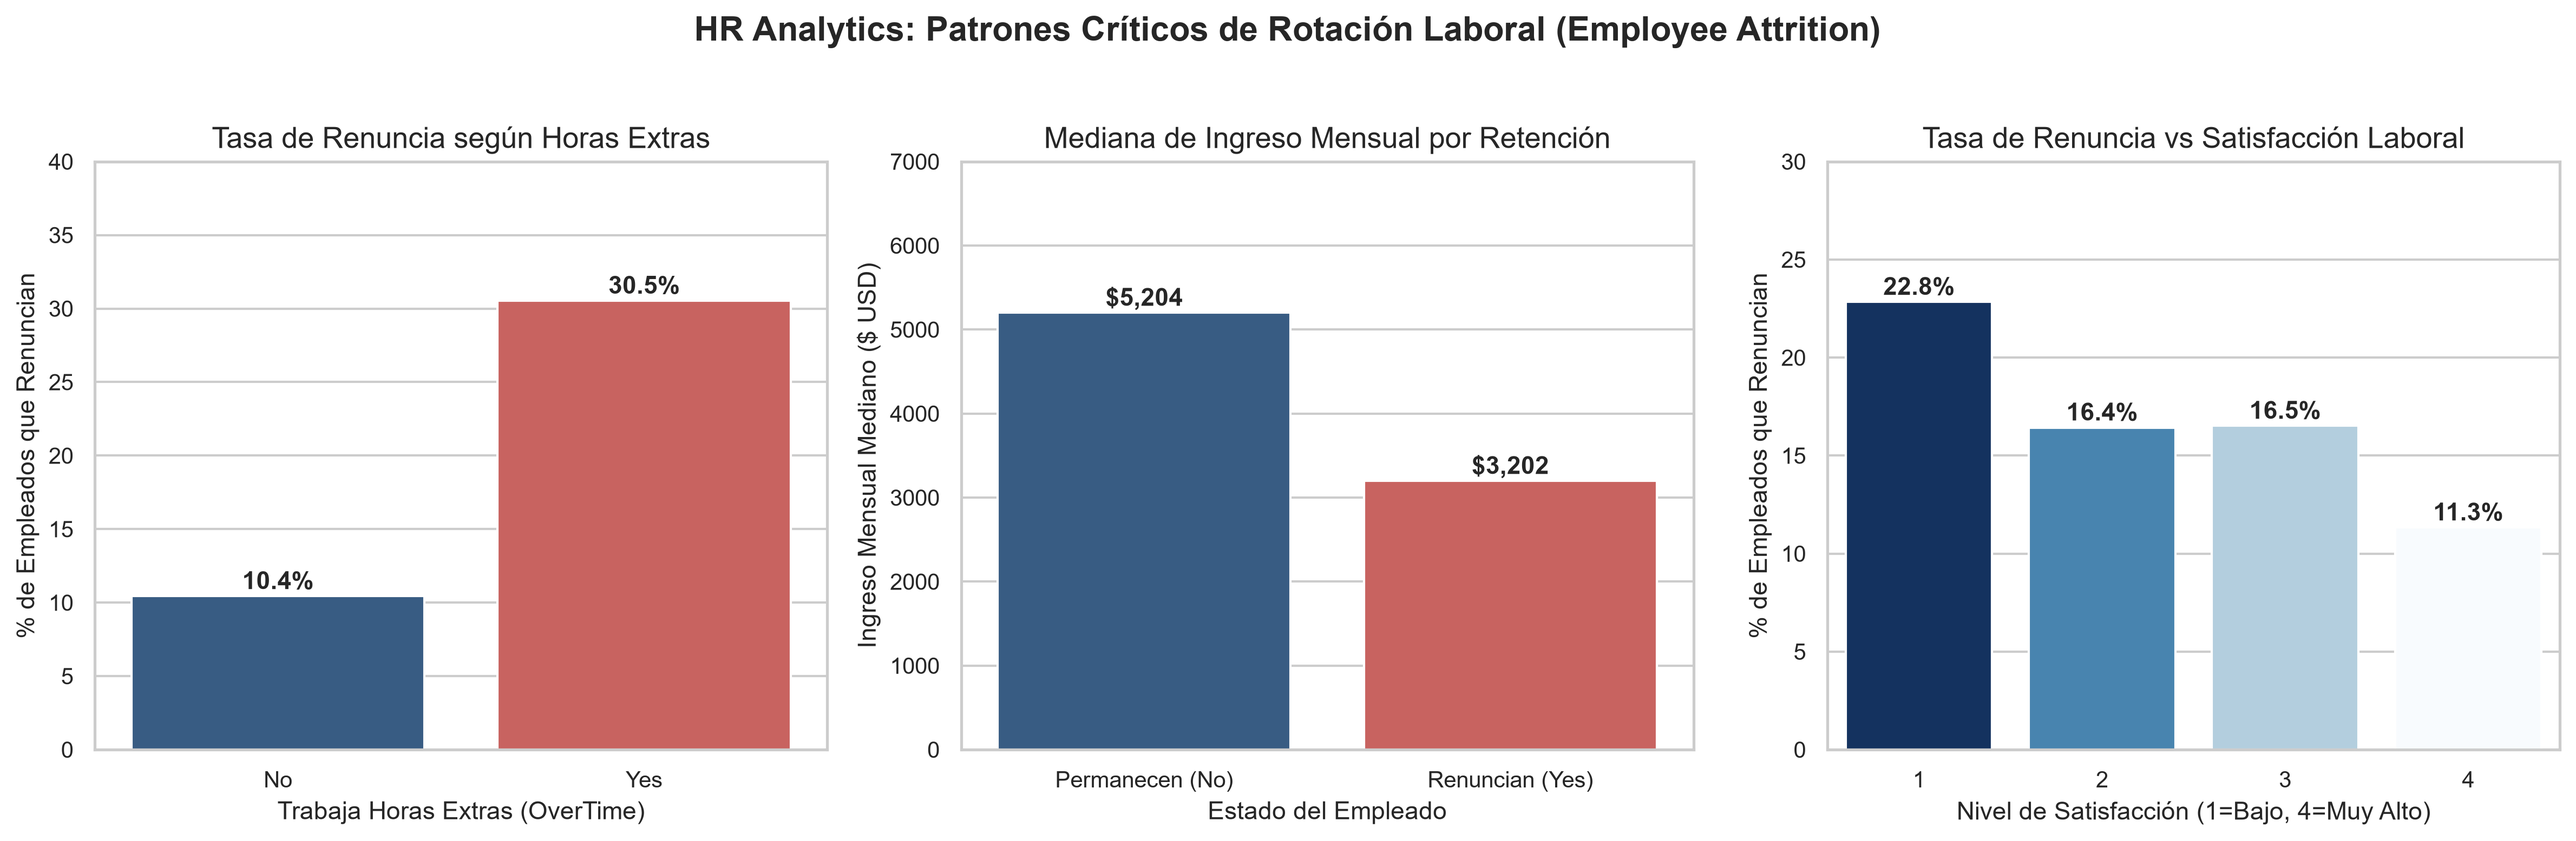
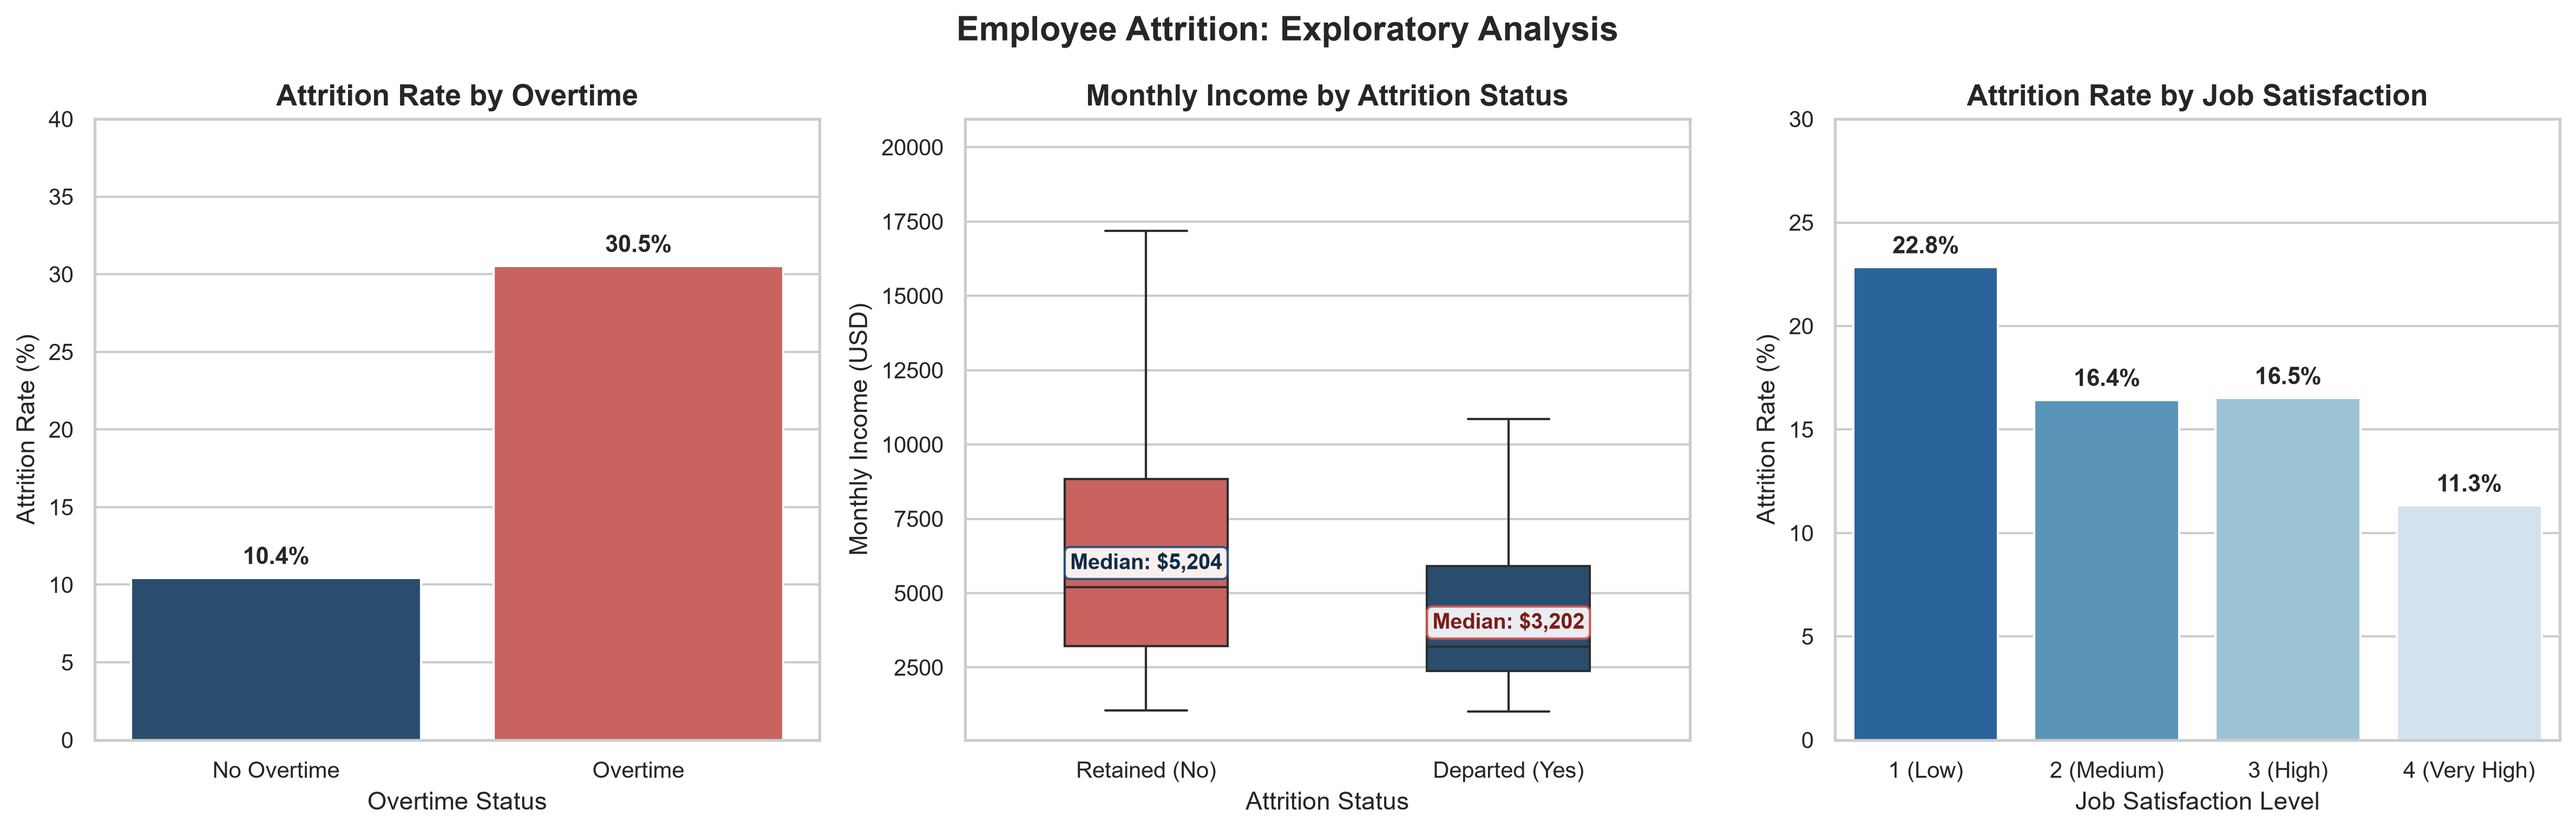
docs: standardize visualizations in english and polish     readme

diff --git a/README.md b/README.md
@@ -1,120 +1,144 @@
 # HR Analytics: Employee Attrition Prediction
 
 **Machine Learning Zoomcamp — Midterm Project**  
-*Por: Romantic Maxwell*
+**Author:** Aldair Maquera  
 
 ---
 
-## 1. Descripcion del Problema de Negocio
+## 1. Problem Description
 
-La rotacion o renuncia voluntaria de empleados (**Employee Attrition**) es uno de los desafios mas criticos y costosos para cualquier organizacion. Segun diversos estudios de Recursos Humanos (SHRM), reemplazar a un colaborador calificado cuesta entre el **50% y el 200% de su salario anual**, sumado a la perdida de conocimiento institucional, tiempo invertido en reclutamiento y disminucion de la moral en los equipos.
+Employee turnover (**Employee Attrition**) is one of the most critical operational and financial challenges organizations face. Human resources research (e.g., SHRM) estimates that replacing a qualified employee typically costs between **50% and 200% of their annual salary**, accounting for recruitment fees, onboarding time, loss of institutional knowledge, and team disruption.
 
-### Objetivo del Proyecto
-Desarrollar una solucion integral de Machine Learning que prediga la probabilidad de que un empleado decida abandonar la empresa. Con estas predicciones, el departamento de Recursos Humanos (People Operations) puede:
-- Identificar perfiles en riesgo de fuga de talento antes de que presenten su renuncia.
-- Implementar planes de retencion personalizados (ajustes de carga laboral, revisiones salariales, promociones o capacitacion).
-- Disminuir la tasa de rotacion voluntaria y optimizar el presupuesto operativo de la empresa.
+### Project Objective
+The goal of this project is to build an end-to-end Machine Learning pipeline that estimates the probability of voluntary employee attrition. This project was developed as the Midterm Project for the **Machine Learning Zoomcamp** (DataTalks.Club).
+
+By providing probabilistic risk estimates, People Operations and HR teams can:
+- Identify team members showing higher statistical patterns associated with turnover.
+- Explore personalized retention actions (workload rebalancing, compensation reviews, career progression, mentorship).
+- Support strategic workforce planning and minimize unnecessary turnover expenses.
+
+> **Note on Causality:** The relationships identified in this project represent statistical associations observed in the dataset. They provide actionable signals for decision support, but should not be interpreted as proven causal mechanisms.
 
 ### Dataset
-Se utiliza el dataset de **IBM HR Analytics Employee Attrition** (disponible en `data/employee_attrition.csv`), el cual contiene **1,470 registros y 35 variables** que cubren aspectos demograficos, compensaciones, evaluaciones de desempeno y niveles de satisfaccion laboral.
+This project uses the **IBM HR Analytics Employee Attrition** dataset (stored in `data/employee_attrition.csv`), containing **1,470 records and 35 variables** spanning demographic details, compensation, job evaluations, role characteristics, and workplace satisfaction indicators.
 
 ---
 
-## 2. Resumen del Analisis Exploratorio (EDA)
+## 2. Exploratory Data Analysis (EDA)
 
-Durante el analisis en el notebook interactivo ([`notebook.ipynb`](notebook.ipynb)) se identificaron los siguientes patrones clave:
-1. **Desbalance moderado de clases:** Aproximadamente el **16.1%** de los empleados renunciaron (`target = 1`), mientras que el **83.9%** permanecio en la compania (`target = 0`).
-2. **Horas extras (`overtime`):** Es uno de los predictores mas fuertes; los empleados que realizan horas extras presentan una tasa de rotacion superior al **30%**, frente a menos del **10%** en quienes no las realizan.
-3. **Ingreso mensual (`monthlyincome`):** Los colaboradores que abandonan la empresa tienen ingresos mensuales sensiblemente menores (mediana en ~$3,200 vs ~$5,200 en empleados retenidos).
-4. **Distancia al hogar (`distancefromhome`):** Los trayectos diarios largos incrementan la probabilidad de renuncia.
-5. **Satisfaccion laboral y del entorno:** Calificaciones bajas (1 o 2 sobre 4) se correlacionan directamente con mayor fuga de talento.
+The complete exploratory analysis is documented in [`notebook.ipynb`](notebook.ipynb). Key findings include:
+
+1. **Target Class Imbalance:** Approximately **16.1%** of employees left the company (`target = 1`), while **83.9%** remained (`target = 0`). Because of this class imbalance, **ROC-AUC** is used as the primary evaluation metric rather than accuracy.
+2. **Overtime Work (`overtime`):** Employees working overtime exhibit an attrition rate of **30.5%**, compared to **10.4%** for employees without overtime.
+3. **Monthly Compensation (`monthlyincome`):** The income distribution is right-skewed across both groups. Departing employees show a substantially lower median monthly income (**$3,202 USD**) compared to retained employees (**$5,204 USD**).
+4. **Job Satisfaction (`jobsatisfaction`):** Attrition rate decreases progressively from **22.8%** among employees with low satisfaction (rating 1) down to **11.3%** for very high satisfaction (rating 4).
+
+![Employee Attrition: Exploratory Analysis](img/eda_attrition_insights.png)
 
 ---
 
-## 3. Comparativa y Afinamiento de Modelos
+## 3. Model Comparison and Tuning
 
-Se entrenaron y compararon 4 familias de algoritmos supervisados utilizando la metrica **ROC-AUC** debido al desbalance de clases:
+Four supervised classification families were trained and evaluated on stratified splits (80% train, 20% test). Models were evaluated primarily using **ROC-AUC** to reliably measure ranking capability despite class imbalance.
 
-| Modelo | Val ROC-AUC (Baseline) | 5-Fold CV ROC-AUC | Test ROC-AUC (Final) |
+| Classification Model | Validation ROC-AUC (Baseline) | 5-Fold CV ROC-AUC | Test ROC-AUC (Final) |
 |---|:---:|:---:|:---:|
-| **Logistic Regression** | 0.8308 | **0.8093 +/- 0.031** | **0.8053** |
+| **Logistic Regression** *(Selected)* | 0.8308 | **0.8093 +/- 0.031** | **0.8053** |
 | **Random Forest Classifier** | **0.8393** | 0.7992 +/- 0.022 | 0.7996 |
 | **XGBoost Classifier** | 0.7808 | 0.7870 +/- 0.025 | 0.8033 |
 | **Decision Tree Classifier** | 0.7584 | 0.7310 +/- 0.035 | 0.7240 |
 
-### Seleccion del Modelo Final
-Se selecciono **Logistic Regression** (con regularizacion `C=1.0`, solver `liblinear`) debido a:
-- Mejor rendimiento promedio y consistencia en validacion cruzada y conjunto de prueba final (**AUC 0.8053**, **Accuracy 88.8%**).
-- Alta interpretabilidad de los coeficientes para decisiones de negocio en Recursos Humanos.
-- Inferencia ultra-rapida y bajo consumo de recursos en produccion.
+![Classification Models: ROC-AUC Comparison](img/model_performance_comparison.png)
+
+### Final Model Selection
+**Logistic Regression** (with regularizer `C=1.0`, `solver='liblinear'`) was selected as the final model due to:
+- **Strong Generalization:** Highest average score and stability across 5-Fold Cross-Validation (**0.8093**) and the unseen Test set (**ROC-AUC: 0.8053**, **Test Accuracy: 88.8%**).
+- **Interpretability:** Clean feature coefficients that clearly indicate the directional influence of each factor.
+- **Efficiency:** Minimal compute footprint, near-zero inference latency, and lightweight deployment requirements.
 
 ---
 
-## 4. Estructura del Repositorio
+## 4. Repository Structure
 
 ```text
 mlzoomcamp-midterm-project/
 ├── data/
-│   └── employee_attrition.csv   # Dataset original
-├── notebook.ipynb                # Analisis exploratorio, modelado y tuning
-├── train.py                     # Script para reentrenar y exportar model.bin
-├── predict.py                   # Servicio web con FastAPI
-├── test_predict.py              # Script cliente para probar inferencia
-├── model.bin                    # Artefacto guardado (DictVectorizer + Modelo)
-├── pyproject.toml               # Dependencias gestionadas con uv
-├── uv.lock                      # Bloqueo determinista de dependencias
-├── Dockerfile                   # Configuracion de contenedor
-├── .gitignore                   # Exclusion de entornos y temporales
-└── README.md                    # Documentacion del proyecto
+│   └── employee_attrition.csv       # Original dataset
+├── img/
+│   ├── eda_attrition_insights.png   # Exploratory data analysis charts
+│   └── model_performance_comparison.png # Model ROC-AUC comparison chart
+├── notebook.ipynb                    # EDA, model benchmarking, and hyperparameter tuning
+├── train.py                         # Standalone script to train and serialize model.bin
+├── predict.py                       # Local REST API service built with FastAPI
+├── test_predict.py                  # Client test script for API inference
+├── generate_plots.py                # Standalone script to reproduce documentation plots
+├── model.bin                        # Serialized artifact (DictVectorizer + LogisticRegression)
+├── pyproject.toml                   # Project dependencies managed via uv
+├── uv.lock                          # Deterministic lockfile for reproducible environments
+├── Dockerfile                       # Container definition for local reproducible execution
+├── .gitignore                       # Git exclusion rules
+└── README.md                        # Project documentation
 ```
 
 ---
 
-## 5. Como Reproducir el Proyecto Localmente
+## 5. How to Reproduce Locally
 
-### Requisitos previos
-- Python 3.11 o 3.12 instalado.
-- Gestor de paquetes `uv` instalado ([guia de instalacion](https://docs.astral.sh/uv/getting-started/installation/)):
+### Prerequisites
+- Python 3.11 or 3.12 installed.
+- Package manager `uv` installed ([uv installation guide](https://docs.astral.sh/uv/getting-started/installation/)):
   ```bash
   pip install uv
   ```
 
-### 1. Clonar el repositorio y sincronizar el entorno
+### 1. Clone the Repository and Synchronize Dependencies
 ```bash
-git clone <URL_DEL_REPOSITORIO>
+git clone https://github.com/ajmaquera/mlzoomcamp-midterm-project.git
 cd mlzoomcamp-midterm-project
 uv sync
 ```
 
-### 2. Ejecutar el Notebook
-Puedes iniciar Jupyter con `uv`:
+### 2. Run the Jupyter Notebook
+To explore the analysis and training steps interactively:
 ```bash
 uv run --with jupyter jupyter notebook
 ```
-Y abrir `notebook.ipynb` para reproducir todos los graficos y entrenamientos.
+Open `notebook.ipynb` to view the EDA, modeling steps, and evaluation outputs.
 
-### 3. Entrenar el modelo con el script
-Para ejecutar el script de reentrenamiento que genera `model.bin`:
+### 3. Retrain and Export the Model
+To re-run the training script and regenerate `model.bin`:
 ```bash
 uv run python train.py
 ```
 
-### 4. Iniciar el servicio web localmente
+### 4. Regenerate Documentation Visualizations
+To regenerate the figures in the `img/` folder:
+```bash
+uv run python generate_plots.py
+```
+
+---
+
+## 6. Running the Local API Service (FastAPI)
+
+This project provides a local REST API service for model inference.
+
+### 1. Start the API Server Locally
 ```bash
 uv run uvicorn predict:app --host 0.0.0.0 --port 9696
 ```
 
-La API estara disponible en:
-- Verificacion de salud: `http://localhost:9696/health`
-- Documentacion interactiva Swagger: `http://localhost:9696/docs`
+Once running, interactive documentation is available at:
+- **Swagger UI:** `http://localhost:9696/docs`
+- **Health check:** `http://localhost:9696/health`
 
-### 5. Probar la API local
-En otra terminal ejecuta el script de prueba:
+### 2. Send a Test Request
+In a separate terminal, run the client test script:
 ```bash
 uv run python test_predict.py
 ```
 
-O usando `curl`:
+Or using `curl`:
 ```bash
 curl -X POST http://localhost:9696/predict \
   -H "Content-Type: application/json" \
@@ -152,7 +176,7 @@ curl -X POST http://localhost:9696/predict \
   }'
 ```
 
-Respuesta esperada:
+Expected JSON response:
 ```json
 {
   "attrition_probability": 0.8142,
@@ -163,21 +187,23 @@ Respuesta esperada:
 
 ---
 
-## 6. Despliegue con Docker
+## 7. Containerized Execution (Docker)
 
-### 1. Construir la imagen Docker
+To test the application in an isolated, reproducible container environment:
+
+### 1. Build the Docker Image
 ```bash
 docker build -t employee-attrition-app .
 ```
 
-### 2. Ejecutar el contenedor
+### 2. Run the Container
 ```bash
 docker run --rm -p 9696:9696 employee-attrition-app
 ```
 
-### 3. Probar el contenedor
-En otra terminal ejecuta:
+### 3. Verify Containerized Inference
+In another terminal, test the containerized endpoint:
 ```bash
-python test_predict.py
+uv run python test_predict.py
 ```
-O realiza una peticion a `http://localhost:9696/health` para comprobar que el servicio esta activo.
+Or check the health endpoint: `http://localhost:9696/health`.
